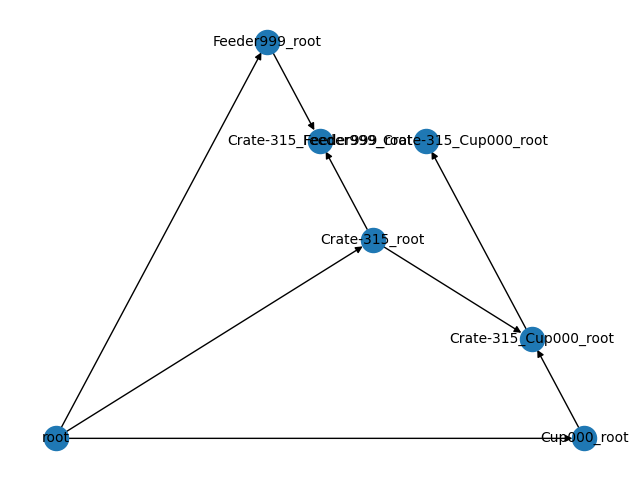
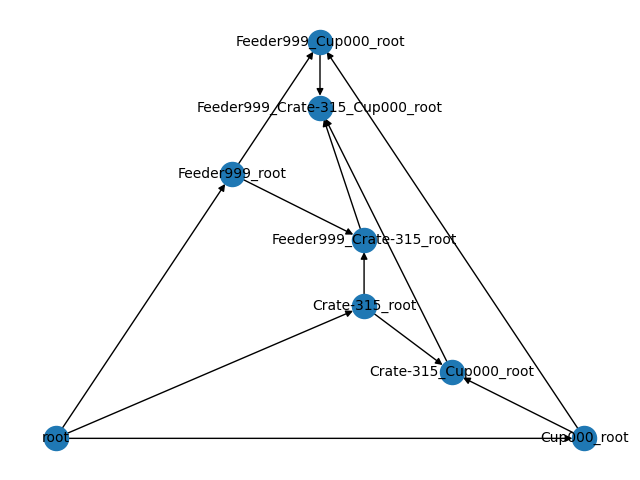
Working algorithm

diff --git a/baselines/baseline/configuration.py b/baselines/baseline/configuration.py
@@ -7,7 +7,6 @@ import matplotlib.pyplot as plt
 def initGraph(input):
     G = nx.DiGraph()
     G.add_node("root", name=None, pos=None, size=None, prob=None)
-
     # append root to queue
     allPoss = list(itertools.permutations(input))
 
@@ -16,20 +15,34 @@ def initGraph(input):
         for objTup in pos:
             # get reference for this node
             ref = objTup[0]+str(objTup[1][0])+str(objTup[1][1])+str(objTup[1][2])+"_"+str(prev_ref)
-
+            # foundEqls = False
+            # for n in G.nodes:
+            #     if checkEq(n, ref):
+            #         G.add_edge(prev_ref, n)
+            #         foundEqls = True
+            #         prev_ref = n
+            edges_to_add = []
             foundEqls = False
-            for n in G:
+            for n in G.nodes:
                 if checkEq(n, ref):
-                    G.add_edge(prev_ref, n)
+                    edges_to_add.append((prev_ref, n))
                     foundEqls = True
                     prev_ref = n
-            # add node if not already added
+
+
+            # Add all the new edges after iterating through the nodes
+            for edge in edges_to_add:
+                G.add_edge(*edge)
+                # add node if not already added
             if (not foundEqls and not G.has_node(ref)):
                 G.add_node(ref, name=objTup[0], pos=objTup[1], size = objTup[2])
                 G.add_edge(prev_ref, ref)
             
             # add edge
                 prev_ref = ref
+            if(G.has_node(ref)):
+                prev_ref = ref
+            
     return G
 
 def checkEq(nd1, nd2):
